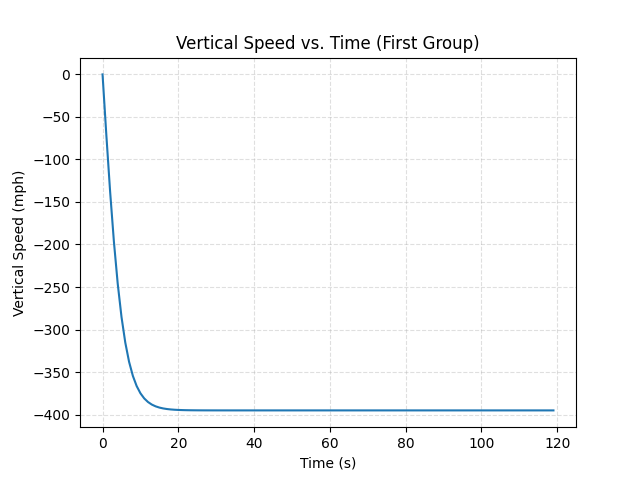
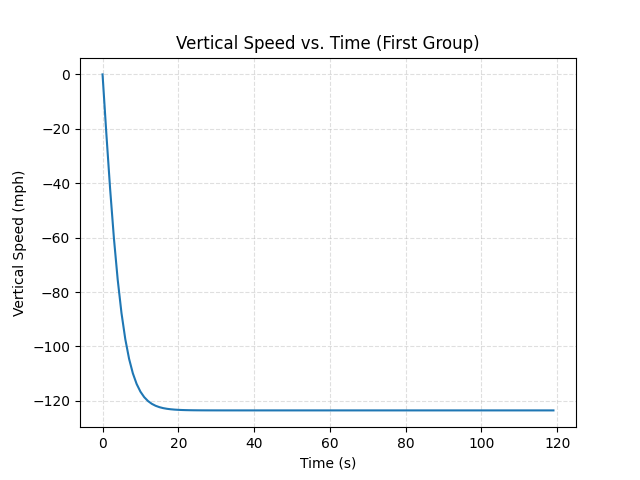
Changed all units to imperial, added vert/horiz speed plots for final group

diff --git a/main.py b/main.py
@@ -30,7 +30,7 @@ from skydiver import Skydiver
 
 
 # Special Parameters
-rho = 1.0 # Air density (NOTE: will eventually not be constant)
+rho = 18.436 * (10**-4) # Air density in slugs/ft^3
 
 def signal_handler(sig, frame):
     print('\nYou pressed Ctrl+C, killing all display processes.')
@@ -59,7 +59,7 @@ def adjust_for_uppers(u, x, z, jump_run, winds):
         # u (x velocity) adjustment DEBUG
         uadj_debug = False
         if uadj_debug is True:
-            print("altitude = " + str(z[t]*const.M_TO_FT) + " u[t] = " + str(u[t]) + ", u_adj = " + str(u_adj))
+            print("altitude = " + str(z[t]) + " u[t] = " + str(u[t]) + ", u_adj = " + str(u_adj))
         
         u[t] = u[t] + u_adj
         x[t] = x[t] + u_adj*t 
@@ -174,8 +174,7 @@ def main_menu(winds):
                 print_title()
                 print(colored("Option 4 is currently under construction...\n", 'cyan'))
             elif ans == 5:
-                if rec_jump_run is None or rec_t_sep is None:
-                    rec_jump_run, rec_t_sep = wind.print_winds(winds, params.aircraft, params.EXIT_ALT)
+                rec_jump_run, rec_t_sep = wind.print_winds(winds, params.aircraft, params.EXIT_ALT)
                 params.jump_run = rec_jump_run
                 params.t_sep = rec_t_sep
                 print_title()
@@ -198,7 +197,6 @@ if __name__ == "__main__":
 
     # Winds
     winds = wind.get_forecast()
-    wind.print_winds(winds, params.aircraft, params.EXIT_ALT)
 
     # Aircraft speeds TODO: Verify these!
     aircraft_speeds = {
@@ -212,10 +210,9 @@ if __name__ == "__main__":
 
     # Initialize runtime variables
     Q = 0                                       # rho*A*CD, to keep code clean
-    z0 = params.EXIT_ALT / const.M_TO_FT        # Initial Altitude in meters
-    m = params.weight * const.LB_TO_KG          # Jumper mass in kg
-    Va = aircraft_speeds.get(params.aircraft) \
-        * const.KT_TO_MPS                       # Aircraft airspeed in m/s   
+    z0 = params.EXIT_ALT                        # Initial Altitude in feet
+    m = params.weight / const.g                 # Jumper mass in slugs
+    Va = aircraft_speeds.get(params.aircraft)   # Aircraft airspeed in knots
     num_groups = params.num_rw_groups + params.num_ff_groups
     sim_time = num_groups * 20                  # Simulation time in seconds
     sim_time = 120                              # TODO: Figure out how to make 
@@ -229,39 +226,43 @@ if __name__ == "__main__":
     # Winds Aloft DEBUG - makes them constant at 180 from jump run
     simple_winds = False
     if simple_winds is True:
-        V_upper = params.V_upper * const.KT_TO_MPS  # Constat uppers in m/s
-        Vg = Va - V_upper # Aircraft groundspeed in m/s
+        V_upper = params.V_upper            # Constant uppers in knots
+        Vg = Va - V_upper                   # Aircraft groundspeed in knots
     else:
-        V_upper_adj = wind.compute_wind_adj(params.jump_run, \
-                                            params.EXIT_ALT/const.M_TO_FT, \
-                                            winds)
-        Vg = Va + V_upper_adj[0]        
-        x_offset = params.t_sep * Vg    # Exit separation in meters
+        V_upper_adj = wind.compute_wind_adj(params.jump_run, params.EXIT_ALT, winds)
+        Vg = Va + V_upper_adj[0]            # Aircraft ground speed in knots
+
+    x_offset = params.t_sep * (Vg*const.KT_TO_FPS) # Exit separation in feet
+
 
     # Create an array of Skydivers based on num_groups
     load = []
     for i in range(num_groups):
         load.append(Skydiver(m))
 
-    # Compute x and z positions and velocities for each group on the load
+    # Compute x and z positions and velocities for each group on the load,
+    # converting speeds from knots to m/s first
     trajectories = []
     for i, jumper in enumerate(load):
         if i < params.num_rw_groups:
             A = const.A_BELLY
             CD = const.CD_BELLY
             Q = rho*A*CD
-            u = jumper.compute_u(t, Va, Q)
-            w = jumper.compute_w(t, Va, Q)
-            x = jumper.compute_x(t, i*x_offset, Va, Q)
-            z = jumper.compute_z(t, z0, Va, Q)
+            u = jumper.compute_u(t, Va*const.KT_TO_FPS, Q)
+            w = jumper.compute_w(t, Va*const.KT_TO_FPS, Q)
+            x = jumper.compute_x(t, i*x_offset, Va*const.KT_TO_FPS, Q)
+            z = jumper.compute_z(t, z0, Va*const.KT_TO_FPS, Q)
         else:
             A = const.A_HD
             CD = const.CD_HD
             Q = rho*A*CD
-            u = jumper.compute_u(t, Va, Q)
-            w = jumper.compute_w(t, Va, Q)
-            x = jumper.compute_x(t, i*x_offset, Va, Q)
-            z = jumper.compute_z(t, z0, Va, Q)
+            u = jumper.compute_u(t, Va*const.KT_TO_FPS, Q)
+            w = jumper.compute_w(t, Va*const.KT_TO_FPS, Q)
+            x = jumper.compute_x(t, i*x_offset, Va*const.KT_TO_FPS, Q)
+            z = jumper.compute_z(t, z0, Va*const.KT_TO_FPS, Q)
+
+        # Convert speed back to knots for adjusting for winds
+        u = u / const.KT_TO_FPS
 
         # Account for drift due to uppers    
         if simple_winds is True:
@@ -271,18 +272,24 @@ if __name__ == "__main__":
             u, x = adjust_for_uppers(u, x, z, params.jump_run, winds)
 
         trajectories.append({
-            "u" : u*const.M_TO_FT,
-            "w" : w*const.M_TO_FT,
-            "x" : x*const.M_TO_FT,
-            "z" : z*const.M_TO_FT
+            "u" : u*const.KT_TO_FPS*const.FPS_TO_MPH,
+            "w" : w*const.FPS_TO_MPH,
+            "x" : x,
+            "z" : z
         })
   
     # Trajectory DEBUG
-    traj_debug = False
+    traj_debug = True
     if traj_debug is True:
-        print(trajectories)
+        #print(trajectories)
         for i, z in enumerate(trajectories[0]['z']):
             print("time = " + str(i) + " sec, Altitude = " + str(z) + " ft")
+            if z < 0: 
+                break
+        for i, z in enumerate(trajectories[len(trajectories)-1]['z']):
+            print("time = " + str(i) + " sec, Altitude = " + str(z) + " ft")
+            if z < 0:
+                break
 
     ###################
     #      PLOTS      #
@@ -294,7 +301,7 @@ if __name__ == "__main__":
 
     # Single jumper vertical speed - TODO: Make this its own function (with horiz speed)
     plt.figure(2)
-    plt.plot(t, trajectories[0]['w']*const.MPS_TO_MPH)
+    plt.plot(t, trajectories[0]['w'])
     plt.grid(alpha=.4,linestyle='--')
     plt.title("Vertical Speed vs. Time (First Group)")
     plt.xlabel("Time (s)")
@@ -303,12 +310,30 @@ if __name__ == "__main__":
 
     # Single jumper horizontal speed
     plt.figure(3)
-    plt.plot(t, trajectories[0]['u']*const.MPS_TO_MPH)
+    plt.plot(t, trajectories[0]['u'])
     plt.grid(alpha=.4,linestyle='--')
     plt.title("Horizontal Speed vs. Time (First Group)")
     plt.xlabel("Time (s)")
     plt.ylabel("Horizontal Speed (mph)")
     plt.savefig("horiz_speed_first_grp.png")
+
+    # Single jumper vertical speed - TODO: Make this its own function (with horiz speed)
+    plt.figure(4)
+    plt.plot(t, trajectories[len(trajectories)-1]['w'])
+    plt.grid(alpha=.4,linestyle='--')
+    plt.title("Vertical Speed vs. Time (Last Group)")
+    plt.xlabel("Time (s)")
+    plt.ylabel("Vertical Speed (mph)")
+    plt.savefig("vert_speed_last_grp.png")
+
+    # Single jumper horizontal speed
+    plt.figure(5)
+    plt.plot(t, trajectories[len(trajectories)-1]['u'])
+    plt.grid(alpha=.4,linestyle='--')
+    plt.title("Horizontal Speed vs. Time (Last Group)")
+    plt.xlabel("Time (s)")
+    plt.ylabel("Horizontal Speed (mph)")
+    plt.savefig("horiz_speed_last_grp.png")
 
     # Open one of the plots with eog (use arrows to see other PNGs)
     processes.append(sp.Popen("eog z_vs_x_all_groups.png &", shell=True))

diff --git a/const.py b/const.py
@@ -1,19 +1,19 @@
 #!/usr/bin/env python3
 
 # CONVERSION CONSTANTS
-KT_TO_MPS = 0.51444444444444   
-LB_TO_KG = 0.45359237          
-M_TO_FT = 3.280839895          
-MPS_TO_MPH = 2.2369362920544025
+KT_TO_FPS = 1.6878098571012
+FPS_TO_MPH = 0.68181818181818
 
 # PHYSICS CONSTANTS
-g = 9.81                # Gravitational acceleration constant in m/s^2
+g = 32.17404855643      # Gravitational acceleration constant in ft/s^2
 
 # AERODYNAMIC CONSTANTS
-CD_HD = 0.8             # Drag Coefficient of a Head Down flyer (see https://tinyurl.com/ya99r6b4)                
+#CD_HD = 1.0             # Drag Coefficient of a Head Down flyer (see https://tinyurl.com/ya99r6b4)                
+CD_HD = 0.5             # Drag Coefficient of a Head Down flyer (see https://tinyurl.com/ya99r6b4)                
 CD_BELLY = 1.0          # Estimated drag coefficient of a belly flyer                                             
-A_HD = 0.35             # Head Down surface area (see http://labman.phys.utk.edu/phys221core/modules/m3/drag.html)
-A_BELLY = 16.0*68.0 / 144.0 / ((M_TO_FT)**2) * 0.7 # Estimated Human body surface area - see NOTE 1               
+#A_HD = 18.0*25.0 / 144.0 # HD Surface area in ft^2
+A_HD = 45.0*25.0 / 144.0 # HD Surface area in ft^2
+A_BELLY = 16.0*68.0 / 144.0 * 0.7 # Estimated Human body surface area - see NOTE 1               
 
 # MISC CONSTANTS
 BLAZE_IT = 420

diff --git a/winds.py b/winds.py
@@ -51,9 +51,6 @@ def compute_wind_adj(jump_run, altitude, winds):
     # Adjust winds to be in same reference as jump run angle
     winds = compass_rotate(winds)
 
-    # Change altitude to feet (TODO: how to avoid losing precision?)
-    altitude = altitude * const.M_TO_FT    
-
     # Interpolate linearly between closest angles to get theta for altitude
     # TODO: Make this less iterative...probably can have a function that looks
     #       for the 2 closest altitudes and then interpolate between?
@@ -99,7 +96,7 @@ def compute_wind_adj(jump_run, altitude, winds):
 
     #print("altitude = " + str(altitude) + ", theta = " + str(np.rad2deg(theta)) + ", speed = " + str(speed))
 
-    speed = speed * const.KT_TO_MPS
+    #speed = speed * const.KT_TO_MPS
         
     return (speed*np.cos(theta), speed*np.sin(theta))
 

diff --git a/parameters.py b/parameters.py
@@ -1,6 +1,5 @@
 #!/usr/bin/env python3
 
-import const
 import os
 import sys
 from termcolor import colored
